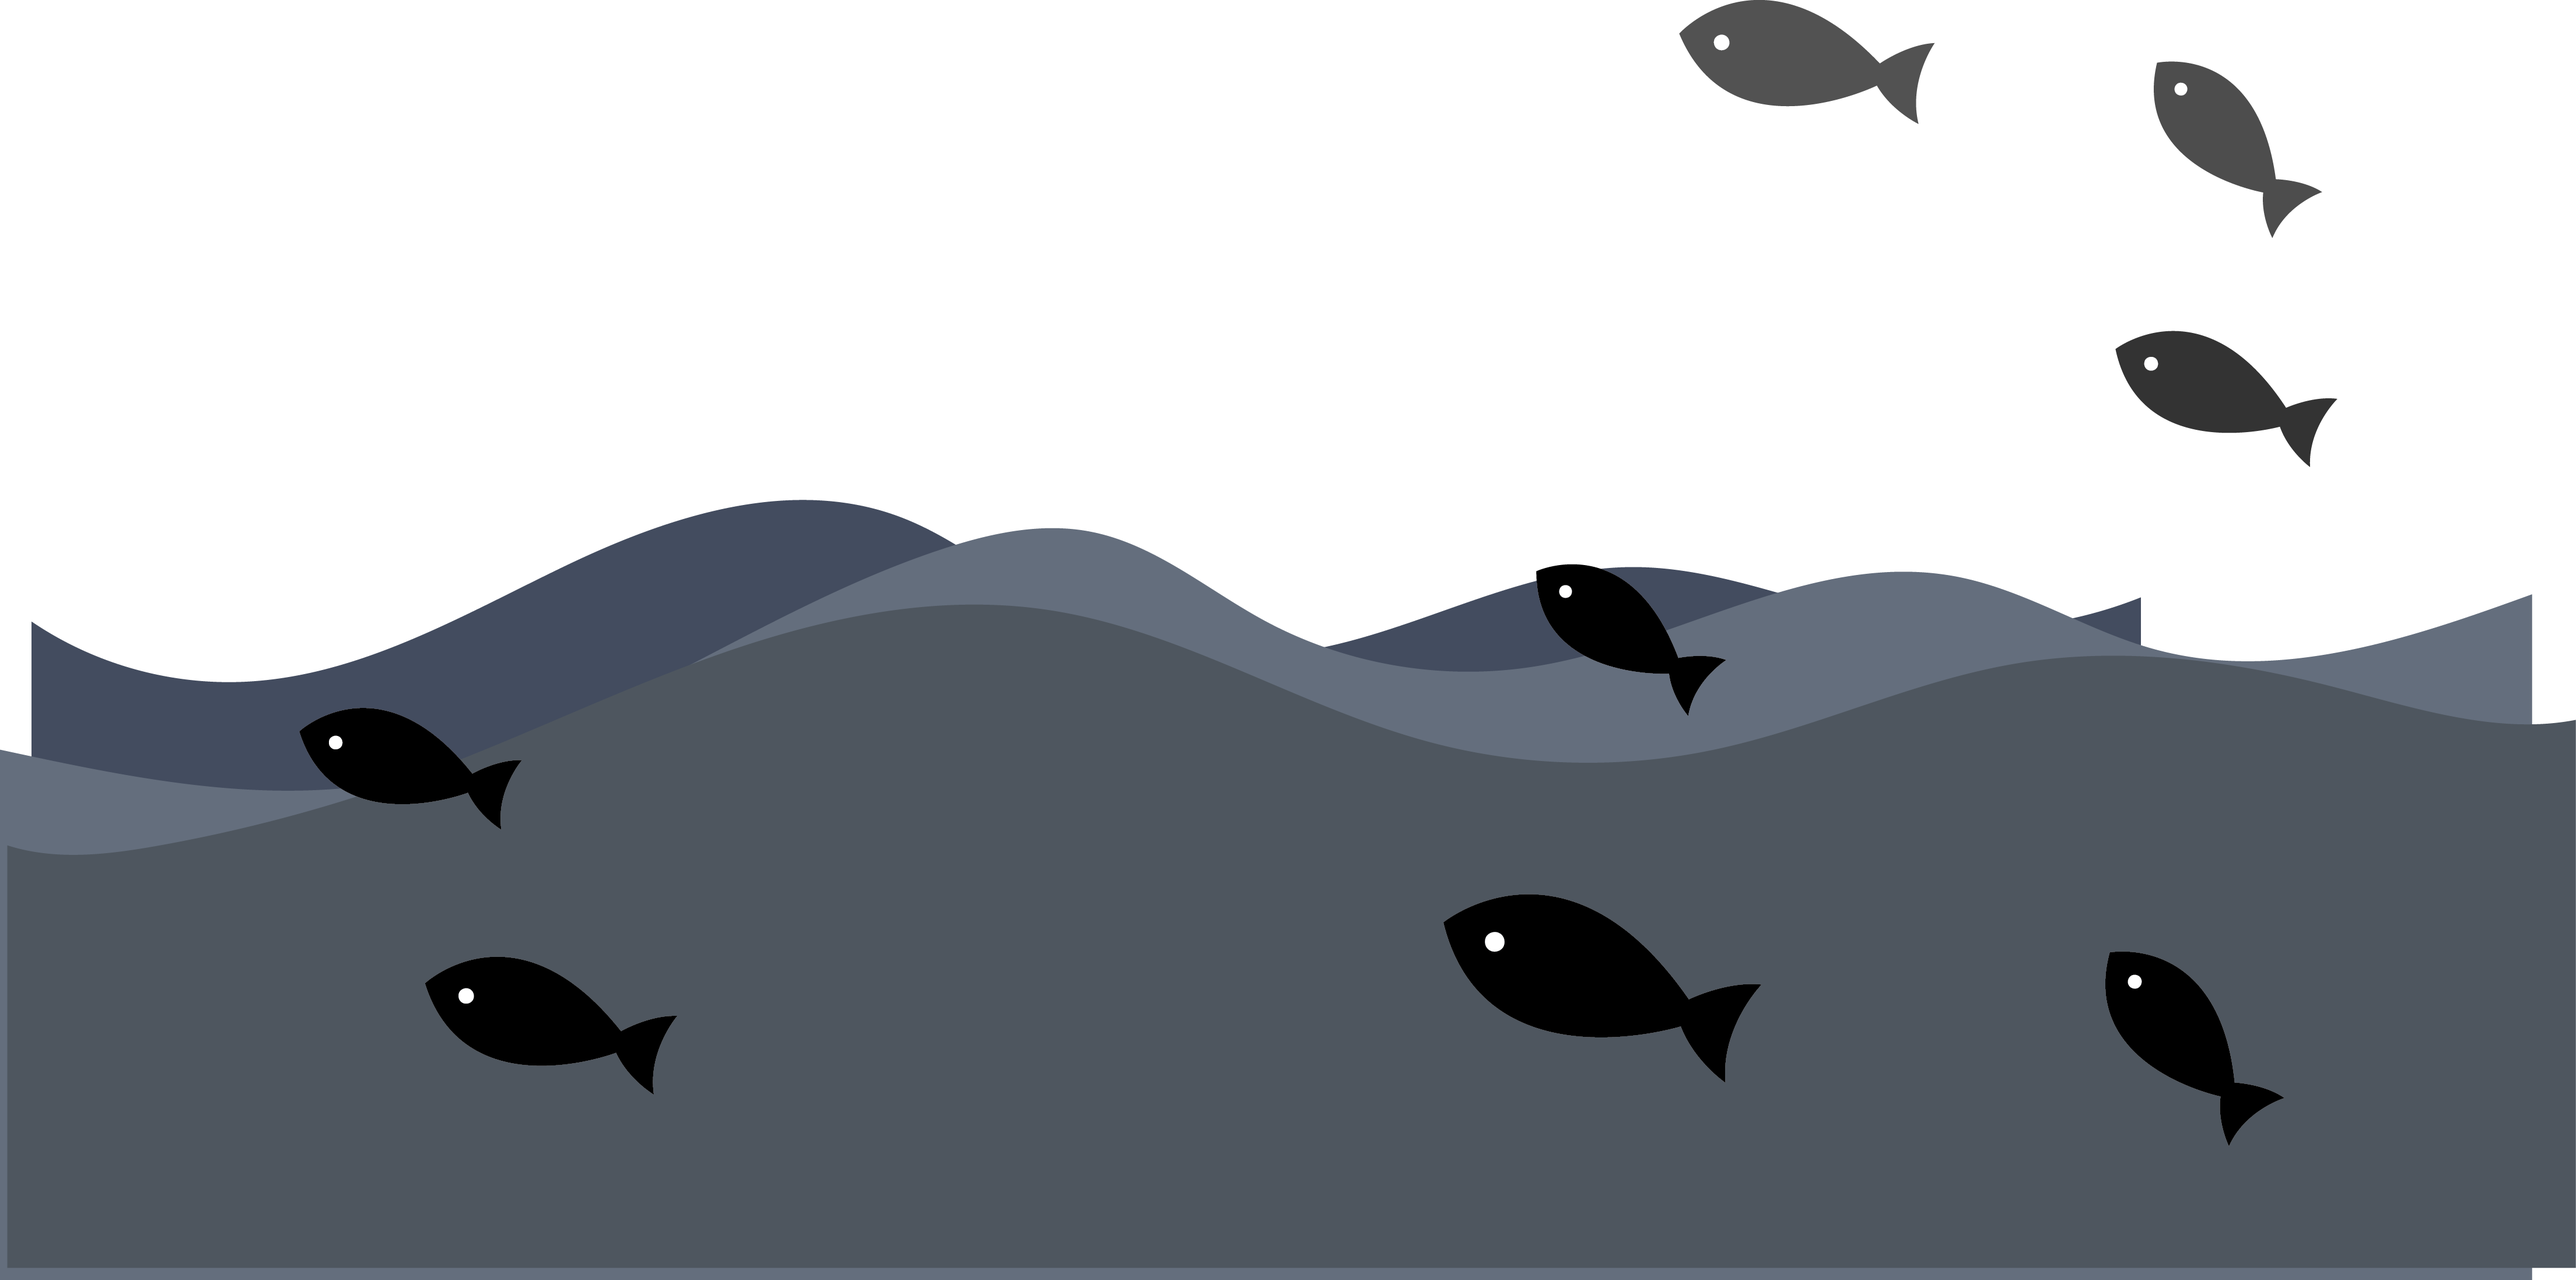
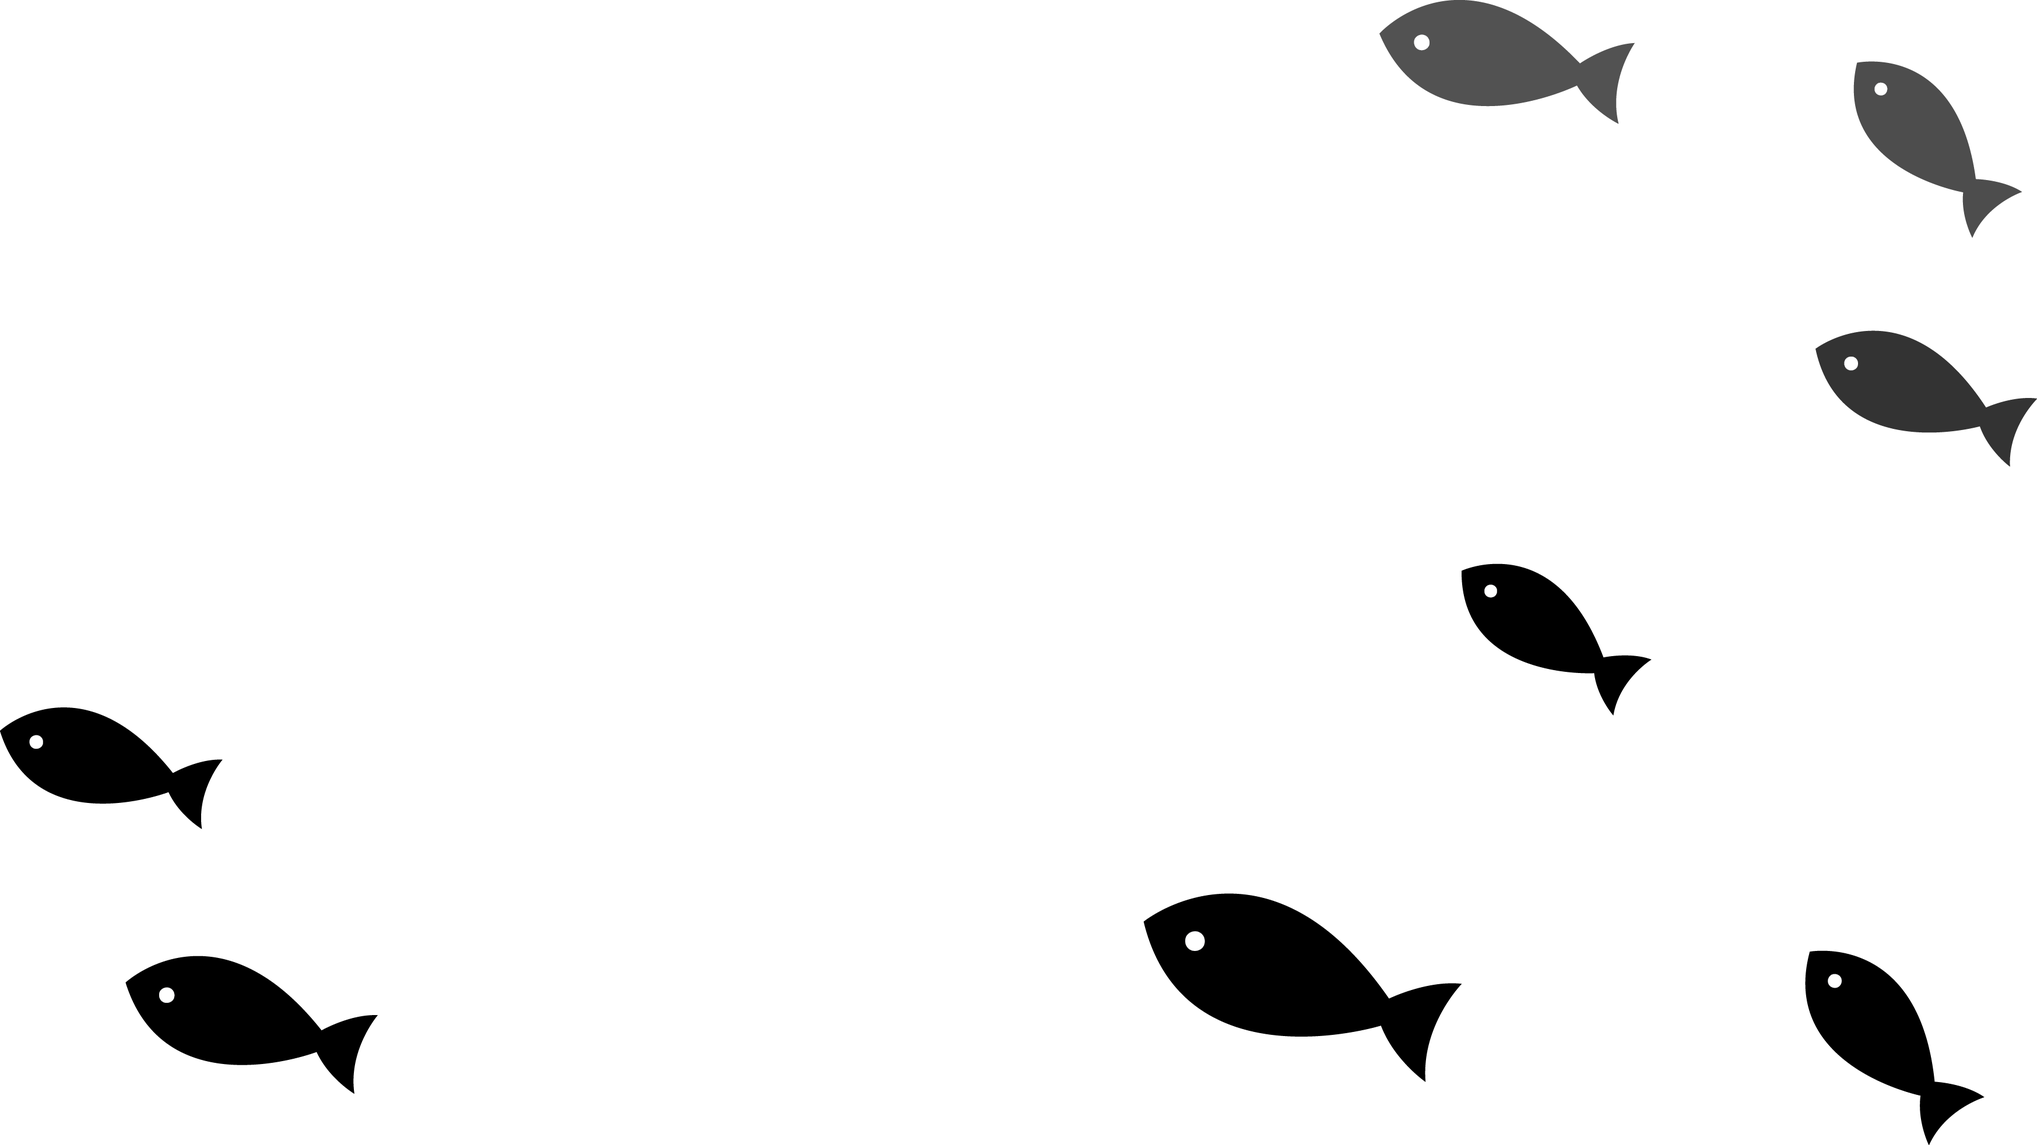
fixed spacing and background on About

diff --git a/about.html b/about.html
@@ -12,7 +12,7 @@
       <main>
          <h2>about me</h2>
          <h1>My hobby is art and my major is design + interactive media.</h1>
-         <p>My name is Maggie Zhang and I am a freshman at Northeastern University in Boston, Massachusetts.  Most of my background is in the fine arts (sketching and oil-painting), but I enjoy accumulating new skills and exploring new mediums.  Now, as a Design+Interactive Media major, I'm undergoing another personal evolution by increasing my exposure to digital work.<br>I've taken formal lessons in sketching and oil-painting for years, and I particularly love depicting facial features and portraits. In recent years, I tried more playful styles, subject, and mediums (such as oil-pastels, calligraphy, and encaustics).  On the digital side, I've created posters, fliers, vector art, and an identity manual.</p>
+         <p>My name is Maggie Zhang and I am a freshman at Northeastern University in Boston, Massachusetts.  Most of my background is in the fine arts (sketching and oil-painting), but I enjoy accumulating new skills and exploring new mediums.  Now, as a Design+Interactive Media major, I'm undergoing another personal evolution by increasing my exposure to digital work.<br><br>I've taken formal lessons in sketching and oil-painting for years, and I particularly love depicting facial features and portraits. In recent years, I tried more playful styles, subject, and mediums (such as oil-pastels, calligraphy, and encaustics).  On the digital side, I've created posters, fliers, vector art, and an identity manual.</p>
       </main>
       <nav>
          <i class="fa fa-bars fa-2x"></i>

diff --git a/css/main.css b/css/main.css
@@ -220,14 +220,14 @@ body.about > main > p, .artwork > main > p, .design > main > p, .misc > main > p
 
 .waves2 {
   position: fixed;
-  left: 0;
-  bottom: -170px;
+  left: 20px;
   width: 100vw;
   padding: 0;
   z-index: -1;
 }
 .waves2 > img {
   width: 100%;
+  opacity: .5;
 }
 
 body.about {

diff --git a/sass/main.scss b/sass/main.scss
@@ -185,13 +185,13 @@ body.about,.artwork,.design,.misc,.contact{
 
 .waves2 {
    position: fixed;
-   left: 0;
-   bottom: -170px;
+   left: 20px;
    width: 100vw;
    padding: 0;
    z-index: -1;
    >img {
       width: 100%;
+      opacity: .5;
    }
 }
 
